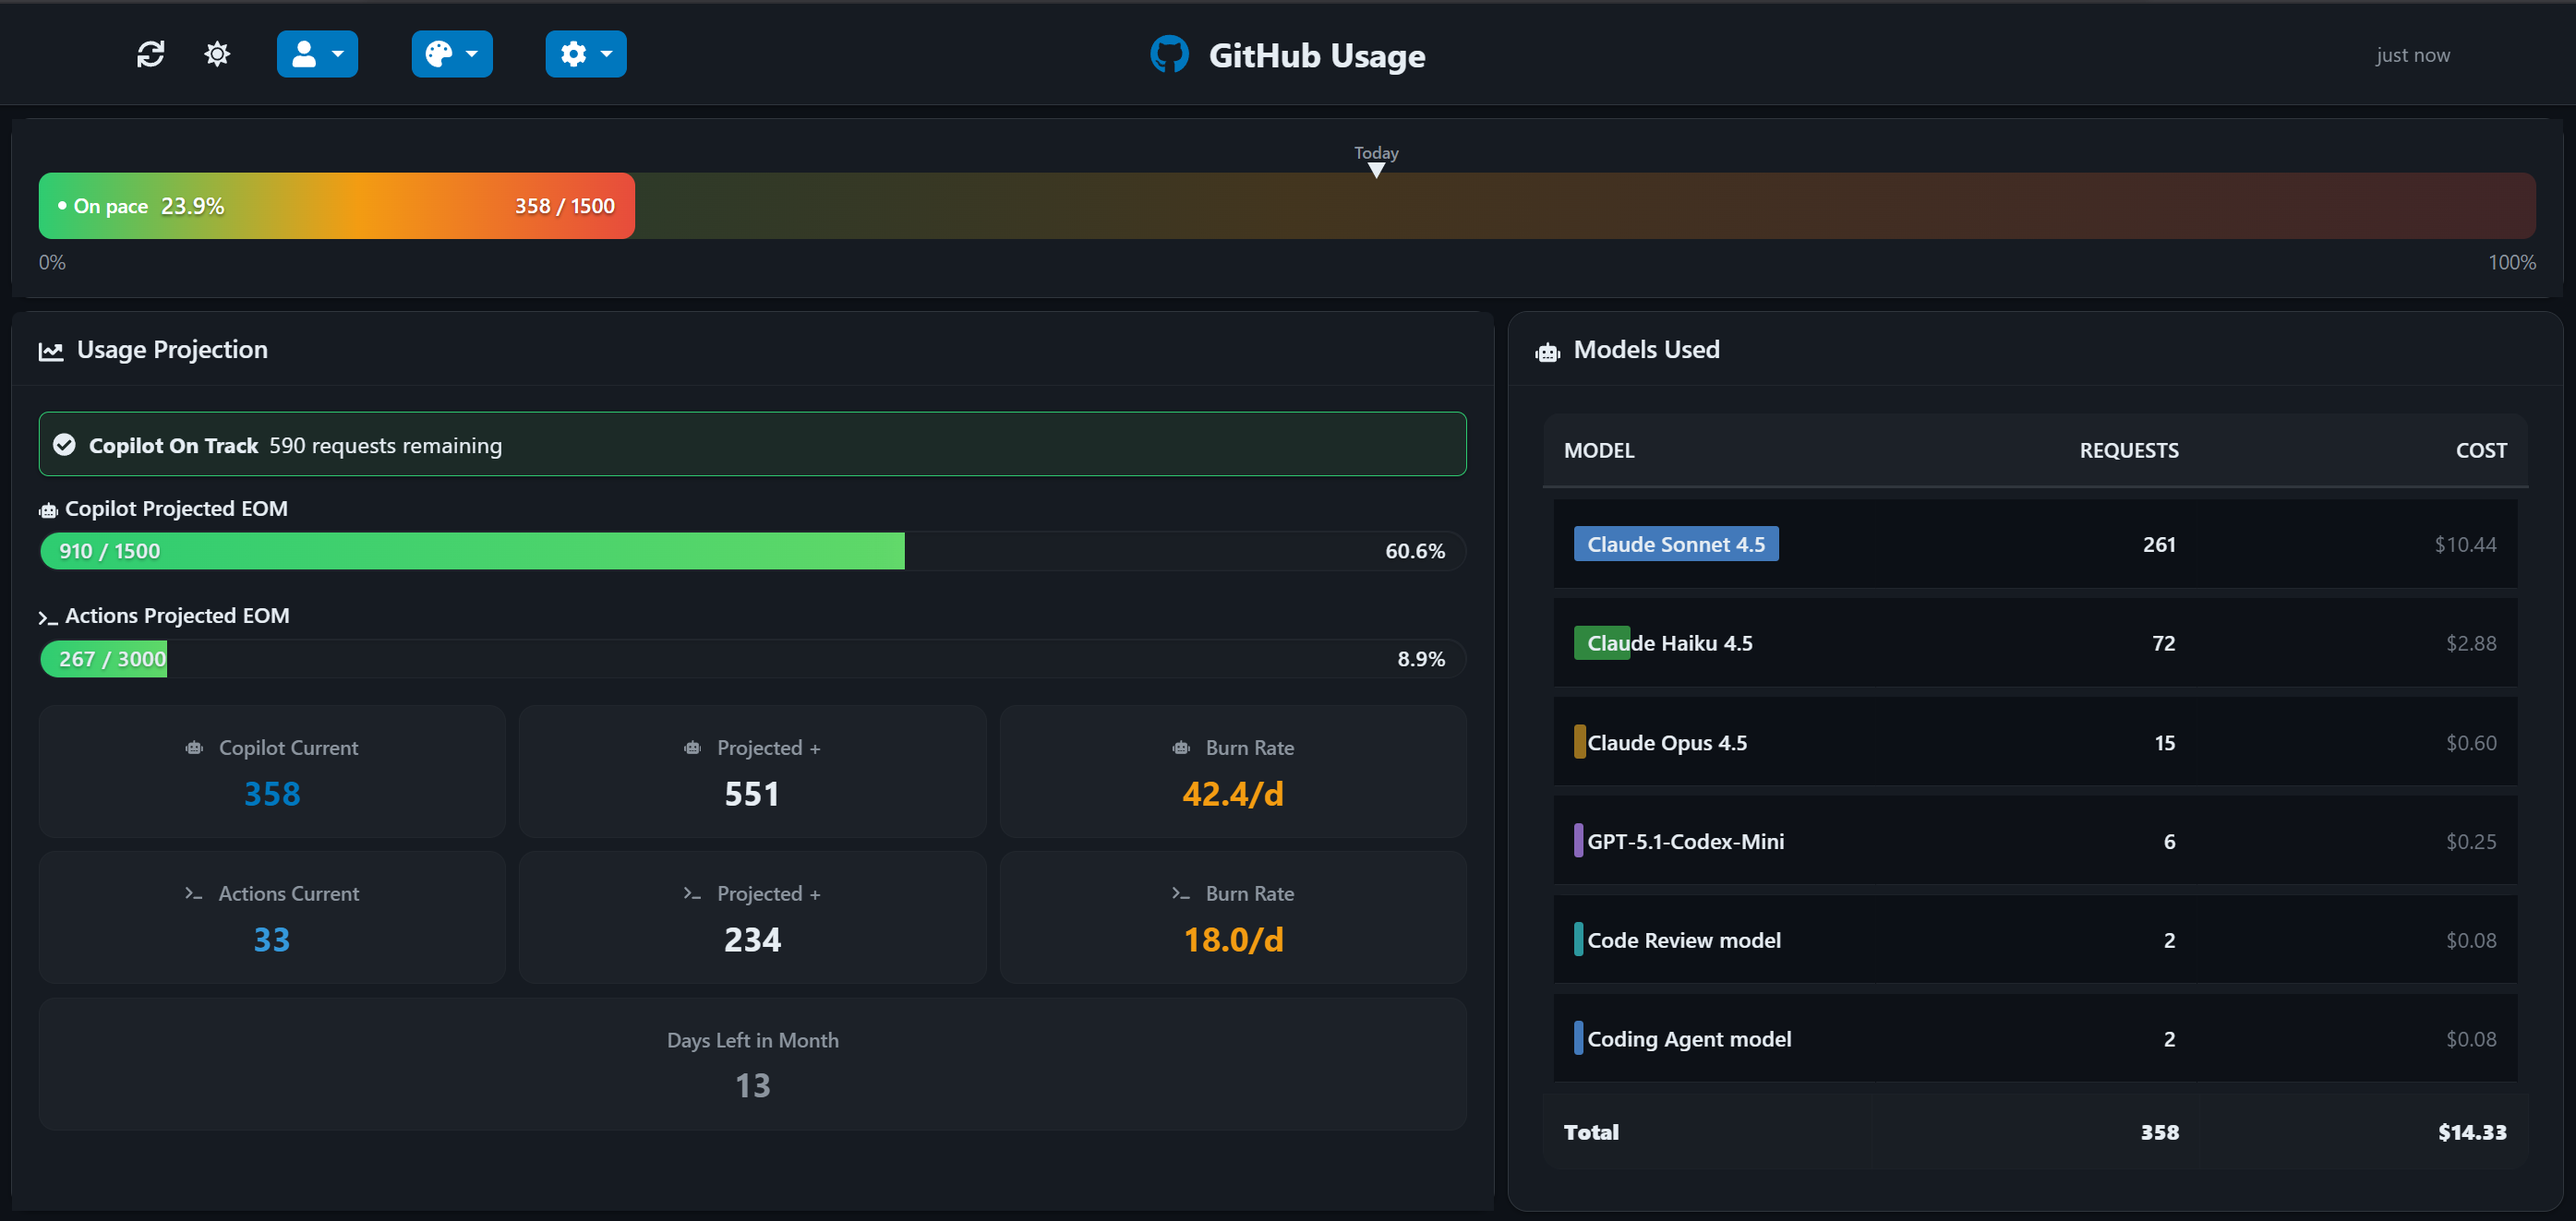
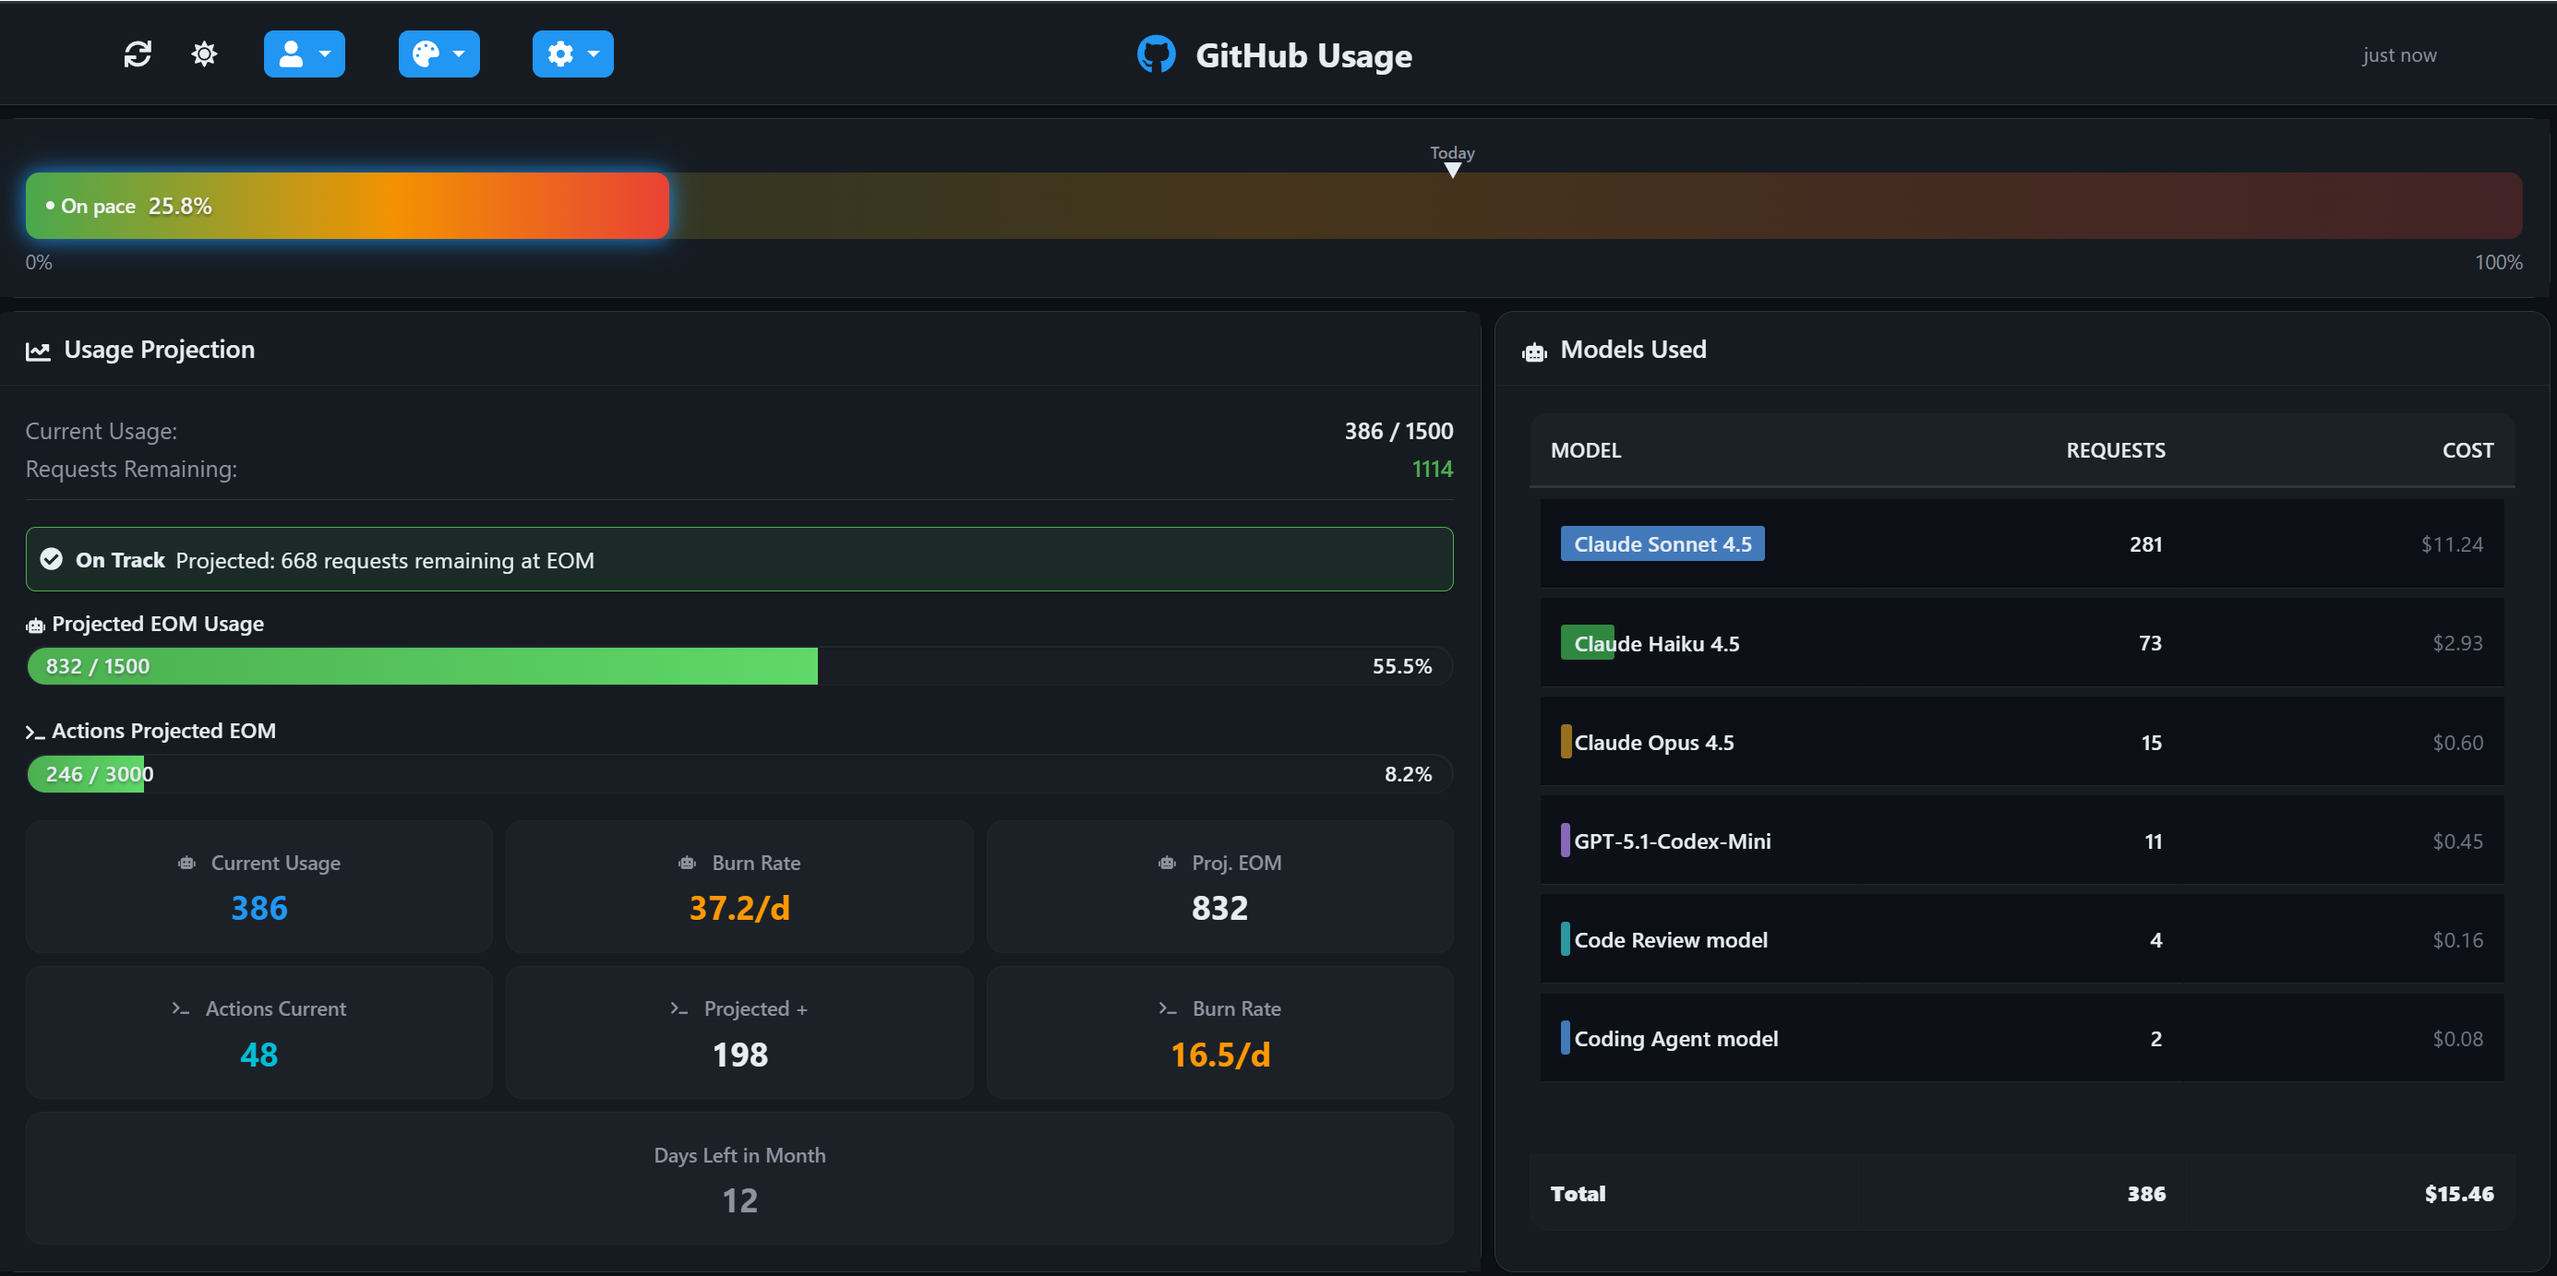
fix: enhance README with local serving instructions and update Copilot projection display

diff --git a/src/components/ProjectionCard.js b/src/components/ProjectionCard.js
@@ -32,17 +32,14 @@ const ProjectionCard = ({
 
   const daysRemaining = getDaysRemainingInMonth();
 
-  if (!copilotProjection || !copilotBurnRate) {
-    return null;
-  }
-
   const {
-    projectedAdditionalUsage: copilotProjectedAdd,
     projectedTotal: copilotProjectedTotal,
     percentageOfQuota: copilotPercentage,
     willExceedQuota: copilotWillExceed,
     usageHeadroom: copilotHeadroom
-  } = copilotProjection;
+  } = copilotProjection || {};
+
+  const copilotCurrentRemaining = copilotQuota - copilotUsage;
 
   return (
     <Card className={`usage-card projection-card compact-projection-card h-100 ${className}`}>
@@ -51,60 +48,89 @@ const ProjectionCard = ({
         {title}
       </Card.Header>
       <Card.Body className="compact-body">
-        {/* Copilot Alert */}
-        {copilotWillExceed && (
-          <Alert variant="danger" className="mb-2 py-2 px-2 compact-alert">
-            <div className="d-flex align-items-center">
-              <FaExclamationTriangle className="me-2" style={{ fontSize: '0.875rem' }} />
+        {/* Current Status Section - Always Visible */}
+        <div className="mb-3 pb-2" style={{ borderBottom: '1px solid var(--border-color)' }}>
+          <div className="d-flex justify-content-between align-items-center" style={{ fontSize: '0.875rem' }}>
+            <span className="text-secondary">Current Usage:</span>
+            <span className="fw-bold">{copilotUsage.toFixed(0)} / {copilotQuota}</span>
+          </div>
+          <div className="d-flex justify-content-between align-items-center" style={{ fontSize: '0.875rem' }}>
+            <span className="text-secondary">Requests Remaining:</span>
+            <span className="fw-bold" style={{ color: 'var(--accent-success)' }}>{copilotCurrentRemaining.toFixed(0)}</span>
+          </div>
+        </div>
+
+        {/* Projections Section - Conditional */}
+        {copilotBurnRate && copilotProjection ? (
+          <>
+            {/* Copilot Alert */}
+            {copilotWillExceed && (
+              <Alert variant="danger" className="mb-2 py-2 px-2 compact-alert">
+                <div className="d-flex align-items-center">
+                  <FaExclamationTriangle className="me-2" style={{ fontSize: '0.875rem' }} />
+                  <div>
+                    <strong style={{ fontSize: '0.8125rem' }}>Projected Overage</strong>
+                    <div style={{ fontSize: '0.75rem' }}>
+                      Will exceed quota by <strong>{(copilotProjectedTotal - copilotQuota).toFixed(0)}</strong> requests at EOM
+                    </div>
+                  </div>
+                </div>
+              </Alert>
+            )}
+
+            {!copilotWillExceed && (
+              <Alert variant="success" className="mb-2 py-2 px-2 compact-alert">
+                <div className="d-flex align-items-center">
+                  <FaCheckCircle className="me-2" style={{ fontSize: '0.875rem' }} />
+                  <div style={{ fontSize: '0.85rem', display: 'flex', gap: '0.4rem', alignItems: 'center', flexWrap: 'nowrap' }}>
+                    <strong style={{ fontSize: '0.8125rem' }}>On Track</strong>
+                    <span style={{ whiteSpace: 'nowrap' }}>Projected: {copilotHeadroom.toFixed(0)} requests remaining at EOM</span>
+                  </div>
+                </div>
+              </Alert>
+            )}
+
+            {/* Copilot Projected Usage Progress Bar */}
+            <div className="mb-3">
+              <div className="d-flex justify-content-between align-items-center mb-1" style={{ fontSize: '0.8125rem' }}>
+                <span className="fw-bold">
+                  <FaRobot className="me-1" style={{ fontSize: '0.75rem' }} />
+                  Projected EOM Usage
+                </span>
+              </div>
+              <div className="projection-progress">
+                <ProgressBar
+                  now={Math.min(copilotPercentage, 100)}
+                  variant={copilotPercentage <= 75 ? 'success' : copilotPercentage <= 90 ? 'warning' : 'danger'}
+                  className="projection-progress-bar"
+                  label=""
+                  srOnly
+                  aria-valuetext={`${copilotProjectedTotal.toFixed(0)} of ${copilotQuota}`}
+                />
+                <div className="projection-progress-overlay">
+                  <span className="projection-progress-usage">
+                    {copilotProjectedTotal.toFixed(0)} / {copilotQuota}
+                  </span>
+                  <span className="projection-progress-percent">
+                    {copilotPercentage.toFixed(1)}%
+                  </span>
+                </div>
+              </div>
+            </div>
+          </>
+        ) : (
+          <Alert variant="info" className="mb-3 py-2 px-2 compact-alert">
+            <div className="d-flex align-items-start">
+              <FaChartLine className="me-2 mt-1" style={{ fontSize: '0.875rem' }} />
               <div>
-                <strong style={{ fontSize: '0.8125rem' }}>Copilot Projected Overage</strong>
+                <strong style={{ fontSize: '0.8125rem' }}>Projections Unavailable</strong>
                 <div style={{ fontSize: '0.75rem' }}>
-                  Will exceed quota by <strong>{(copilotProjectedTotal - copilotQuota).toFixed(0)}</strong> requests
+                  Insufficient historical data. Check back after 2+ days of usage for EOM projections.
                 </div>
               </div>
             </div>
           </Alert>
         )}
-
-        {!copilotWillExceed && (
-        <Alert variant="success" className="mb-2 py-2 px-2 compact-alert">
-          <div className="d-flex align-items-center">
-            <FaCheckCircle className="me-2" style={{ fontSize: '0.875rem' }} />
-            <div style={{ fontSize: '0.85rem', display: 'flex', gap: '0.4rem', alignItems: 'center', flexWrap: 'nowrap' }}>
-              <strong style={{ fontSize: '0.8125rem' }}>Copilot On Track</strong>
-              <span style={{ whiteSpace: 'nowrap' }}>{copilotHeadroom.toFixed(0)} requests remaining</span>
-            </div>
-          </div>
-        </Alert>
-        )}
-
-        {/* Copilot Projected Usage Progress Bar */}
-        <div className="mb-3">
-          <div className="d-flex justify-content-between align-items-center mb-1" style={{ fontSize: '0.8125rem' }}>
-            <span className="fw-bold">
-              <FaRobot className="me-1" style={{ fontSize: '0.75rem' }} />
-              Copilot Projected EOM
-            </span>
-          </div>
-          <div className="projection-progress">
-            <ProgressBar
-              now={Math.min(copilotPercentage, 100)}
-              variant={copilotPercentage <= 75 ? 'success' : copilotPercentage <= 90 ? 'warning' : 'danger'}
-              className="projection-progress-bar"
-              label=""
-              srOnly
-              aria-valuetext={`${copilotProjectedTotal.toFixed(0)} of ${copilotQuota}`}
-            />
-            <div className="projection-progress-overlay">
-              <span className="projection-progress-usage">
-                {copilotProjectedTotal.toFixed(0)} / {copilotQuota}
-              </span>
-              <span className="projection-progress-percent">
-                {copilotPercentage.toFixed(1)}%
-              </span>
-            </div>
-          </div>
-        </div>
 
         {/* Actions Projected Usage Progress Bar */}
         {actionsProjection && actionsBurnRate && (
@@ -136,13 +162,13 @@ const ProjectionCard = ({
           </div>
         )}
 
-        {/* Compact Inline Stats - 3 columns for Copilot, 3 for Actions */}
+        {/* Compact Inline Stats - 3 columns x 2 rows grid */}
         <div className="compact-stats-grid-combined projection-stats-grid">
-          {/* Copilot Stats */}
+          {/* Row 1: Copilot Stats */}
           <div className="compact-stat-item">
             <span className="compact-stat-label">
               <FaRobot className="me-1" style={{ fontSize: '0.65rem' }} />
-              Copilot Current
+              Current Usage
             </span>
             <span className="compact-stat-value" style={{ color: 'var(--accent-primary)' }}>
               {copilotUsage.toFixed(0)}
@@ -151,57 +177,53 @@ const ProjectionCard = ({
           <div className="compact-stat-item">
             <span className="compact-stat-label">
               <FaRobot className="me-1" style={{ fontSize: '0.65rem' }} />
-              Projected +
+              Burn Rate
             </span>
-            <span className="compact-stat-value" style={{ color: 'var(--text-primary)' }}>
-              {copilotProjectedAdd.toFixed(0)}
+            <span className="compact-stat-value" style={{ color: copilotBurnRate ? 'var(--accent-warning)' : 'var(--text-muted)' }}>
+              {copilotBurnRate ? `${copilotBurnRate.dailyRate.toFixed(1)}/d` : '...'}
             </span>
           </div>
           <div className="compact-stat-item">
             <span className="compact-stat-label">
               <FaRobot className="me-1" style={{ fontSize: '0.65rem' }} />
-              Burn Rate
+              Proj. EOM
             </span>
-            <span className="compact-stat-value" style={{ color: 'var(--accent-warning)' }}>
-              {copilotBurnRate.dailyRate.toFixed(1)}/d
+            <span className="compact-stat-value" style={{ color: copilotProjection ? 'var(--text-primary)' : 'var(--text-muted)' }}>
+              {copilotProjection ? copilotProjectedTotal.toFixed(0) : '...'}
             </span>
           </div>
           
-          {/* Actions Stats */}
-          {actionsProjection && actionsBurnRate && (
-            <>
-              <div className="compact-stat-item">
-                <span className="compact-stat-label">
-                  <FaTerminal className="me-1" style={{ fontSize: '0.65rem' }} />
-                  Actions Current
-                </span>
-                <span className="compact-stat-value" style={{ color: 'var(--accent-info)' }}>
-                  {actionsUsage.toFixed(0)}
-                </span>
-              </div>
-              <div className="compact-stat-item">
-                <span className="compact-stat-label">
-                  <FaTerminal className="me-1" style={{ fontSize: '0.65rem' }} />
-                  Projected +
-                </span>
-                <span className="compact-stat-value" style={{ color: 'var(--text-primary)' }}>
-                  {actionsProjection.projectedAdditionalUsage.toFixed(0)}
-                </span>
-              </div>
-              <div className="compact-stat-item">
-                <span className="compact-stat-label">
-                  <FaTerminal className="me-1" style={{ fontSize: '0.65rem' }} />
-                  Burn Rate
-                </span>
-                <span className="compact-stat-value" style={{ color: 'var(--accent-warning)' }}>
-                  {actionsBurnRate.dailyRate.toFixed(1)}/d
-                </span>
-              </div>
-            </>
-          )}
+          {/* Row 2: Actions Stats */}
+          <div className="compact-stat-item">
+            <span className="compact-stat-label">
+              <FaTerminal className="me-1" style={{ fontSize: '0.65rem' }} />
+              Actions Current
+            </span>
+            <span className="compact-stat-value" style={{ color: 'var(--accent-info)' }}>
+              {actionsUsage ? actionsUsage.toFixed(0) : '0'}
+            </span>
+          </div>
+          <div className="compact-stat-item">
+            <span className="compact-stat-label">
+              <FaTerminal className="me-1" style={{ fontSize: '0.65rem' }} />
+              Projected +
+            </span>
+            <span className="compact-stat-value" style={{ color: actionsProjection ? 'var(--text-primary)' : 'var(--text-muted)' }}>
+              {actionsProjection ? actionsProjection.projectedAdditionalUsage.toFixed(0) : '...'}
+            </span>
+          </div>
+          <div className="compact-stat-item">
+            <span className="compact-stat-label">
+              <FaTerminal className="me-1" style={{ fontSize: '0.65rem' }} />
+              Burn Rate
+            </span>
+            <span className="compact-stat-value" style={{ color: actionsBurnRate ? 'var(--accent-warning)' : 'var(--text-muted)' }}>
+              {actionsBurnRate ? `${actionsBurnRate.dailyRate.toFixed(1)}/d` : '...'}
+            </span>
+          </div>
           
           {/* Days Remaining - Spans full width */}
-          <div className="compact-stat-item" style={{ gridColumn: actionsProjection ? 'span 3' : 'span 2' }}>
+          <div className="compact-stat-item" style={{ gridColumn: 'span 3' }}>
             <span className="compact-stat-label">Days Left in Month</span>
             <span className="compact-stat-value" style={{ color: 'var(--text-secondary)' }}>
               {daysRemaining}

diff --git a/src/components/CopilotProgressBar.js b/src/components/CopilotProgressBar.js
@@ -148,18 +148,6 @@ const CopilotProgressBar = ({ currentUsage, quota = 1500 }) => {
                   {percentage.toFixed(1)}%
                 </span>
               </div>
-              
-              {/* Right side: Usage count */}
-              <div style={{
-                marginLeft: 'auto',
-                fontSize: isMobile ? '0.7rem' : '0.8rem',
-                color: 'white',
-                fontWeight: 600,
-                textShadow: '0 1px 2px rgba(0,0,0,0.5)',
-                whiteSpace: 'nowrap'
-              }}>
-                {currentUsage.toFixed(0)} / {quota}
-              </div>
             </div>
           </div>
         </div>

diff --git a/README.md b/README.md
@@ -97,11 +97,38 @@ Classic PATs will NOT work as they don't have the "Plan" permission option.
    The token is validated and stored securely in your browser (base64 encoded in localStorage).
 
  5. **Build for production**
+     ```bash
+     npm run build
+     ```
+
+     The build artifacts will be in the `build/` directory.
+
+ 6. **Serve locally for testing (optional)**
+
+    After building, you can serve the `build/` folder locally to test or share on your LAN:
+
+    **Option 1: Python (usually pre-installed)**
     ```bash
-    npm run build
+    cd build && python3 -m http.server 3000 --bind 0.0.0.0
+    # Access at: http://localhost:3000 or http://YOUR_IP:3000
     ```
 
-    The build artifacts will be in the `build/` directory.
+    **Option 2: Node.js (npx serve)**
+    ```bash
+    npx serve -s build -l 3000
+    # Access at: http://localhost:3000
+    ```
+
+    **Option 3: npx http-server**
+    ```bash
+    npx http-server build -p 3000 --cors
+    # Access at: http://localhost:3000
+    ```
+
+    **To find your LAN IP address:**
+    - **Linux/Mac**: Run `ip addr` or `ifconfig`
+    - **Windows**: Run `ipconfig`
+    - Then access from other devices: `http://YOUR_IP:3000`
 
 ### Docker Deployment (Manual)
 
